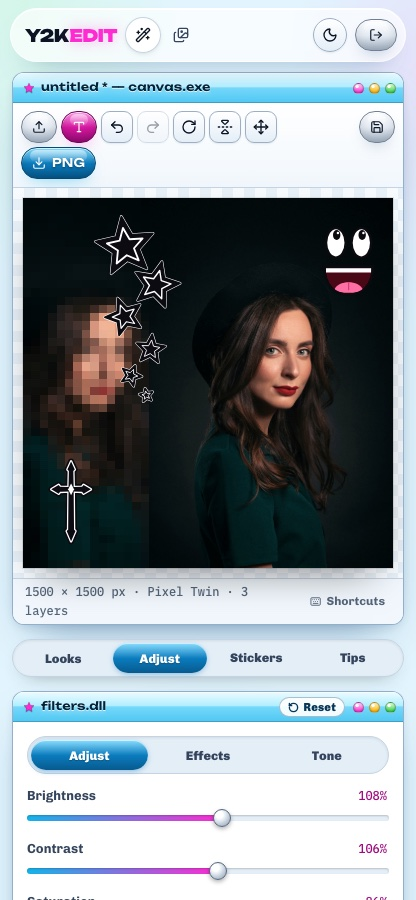
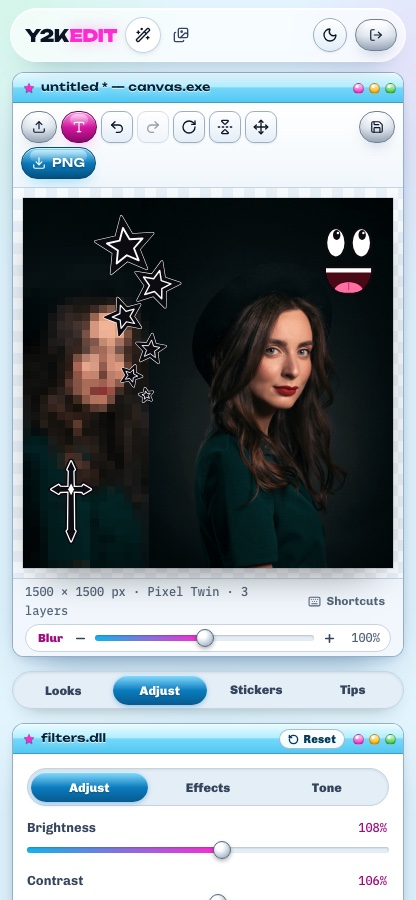
Editor: Blur meter under the canvas for blurry looks
The blur sliders from the last change sat in the Effects tab of
filters.dll, below all 29 presets and the layout panel, so they were
hard to find. Now, whenever the look has blur in it (Blur, Soft focus
or Dreamy glow), a Blur meter shows in the canvas status bar:

- 0% to 200% of the look's blur; 100% is the look as designed. At 0%
  the look keeps its colours but loses its softness.
- - and + buttons move it in steps of 10; clicking the value resets it.
- It scales all three blurs together; the Effects tab sliders still
  fine-tune each one.
- On phones it takes its own full-width row under the canvas.
- The status bar is a fixed height, so the canvas doesn't move when the
  meter appears. A new look resets the meter to 100%, and older edits
  load at 100%.

README: the editor and phone screenshots now show the meter, and the
feature list describes it.

Changed region(s): [[0.0312, 0.6533, 0.9688, 1.0]]

diff --git a/frontend/src/editor/components/BlurMeter.tsx b/frontend/src/editor/components/BlurMeter.tsx
@@ -1,0 +1,69 @@
+import { useId, type CSSProperties } from "react";
+import { Minus, Plus } from "lucide-react";
+import { BLUR_SCALE_MAX } from "../defaults";
+
+interface BlurMeterProps {
+  /** 0..200 %: how much of the look's blur to keep; 100 is the look as designed. */
+  value: number;
+  onChange: (value: number) => void;
+  /** Closes the undo step once a drag, key press or button press is done. */
+  onCommit: () => void;
+}
+
+const STEP = 10;
+
+/**
+ * Sits under the canvas whenever the look has blur in it (Blur, Soft focus or Dreamy glow), so you can
+ * turn the softness down or up without hunting through the filter panel.
+ */
+export function BlurMeter({ value, onChange, onCommit }: BlurMeterProps) {
+  const id = useId();
+  const nudge = (delta: number) => {
+    onChange(Math.min(BLUR_SCALE_MAX, Math.max(0, value + delta)));
+    onCommit();
+  };
+  const changed = value !== 100;
+  return (
+    <div className="blur-meter" title="Turns all the blur in this look down or up">
+      <label htmlFor={id} className="blur-meter__label">
+        Blur
+      </label>
+      <button type="button" className="blur-meter__step" onClick={() => nudge(-STEP)} disabled={value <= 0} aria-label="Less blur">
+        <Minus size={13} strokeWidth={3} aria-hidden="true" />
+      </button>
+      <input
+        id={id}
+        className="range blur-meter__range"
+        type="range"
+        min={0}
+        max={BLUR_SCALE_MAX}
+        step={5}
+        value={value}
+        aria-valuetext={value === 0 ? "No blur" : `${value}% of the look's blur`}
+        style={{ "--fill": `${(value / BLUR_SCALE_MAX) * 100}%` } as CSSProperties}
+        onChange={(e) => onChange(Number(e.target.value))}
+        onPointerUp={onCommit}
+        onKeyUp={onCommit}
+        onBlur={onCommit}
+      />
+      <button type="button" className="blur-meter__step" onClick={() => nudge(STEP)} disabled={value >= BLUR_SCALE_MAX} aria-label="More blur">
+        <Plus size={13} strokeWidth={3} aria-hidden="true" />
+      </button>
+      {changed ? (
+        <button
+          type="button"
+          className="blur-meter__value blur-meter__value--reset"
+          title="Back to the look's own blur"
+          onClick={() => {
+            onChange(100);
+            onCommit();
+          }}
+        >
+          {value}%
+        </button>
+      ) : (
+        <span className="blur-meter__value">{value}%</span>
+      )}
+    </div>
+  );
+}

diff --git a/frontend/src/styles/editor.css b/frontend/src/styles/editor.css
@@ -448,6 +448,64 @@
   color: var(--pink-ink);
 }
 
+/* ---------- Blur meter: in the canvas status bar while the look has blur in it ---------- */
+.canvas-window .window__status {
+  min-height: 36px; /* tall enough for the meter, so the stage doesn't jump when it appears */
+  flex-wrap: wrap;
+  row-gap: 4px;
+}
+/* The size line gives way first, so Shortcuts keeps its place beside it on a phone. */
+.canvas-window .window__status > .tabular { flex: 1 1 0; min-width: 0; }
+.blur-meter {
+  display: flex;
+  align-items: center;
+  gap: 4px;
+  margin-left: auto;
+  padding: 1px 8px 1px 12px;
+  border: 1px solid var(--line);
+  border-radius: 999px;
+  background: var(--surface);
+}
+.blur-meter__label {
+  margin-right: 2px;
+  color: var(--pink-ink);
+  font-size: 12px;
+  font-weight: 800;
+}
+.blur-meter__step {
+  display: grid;
+  place-items: center;
+  width: 22px;
+  height: 22px;
+  padding: 0;
+  border: 0;
+  border-radius: 50%;
+  background: none;
+  color: var(--ink-2);
+}
+.blur-meter__step:hover:not(:disabled) {
+  background: var(--surface-3);
+  color: var(--pink-ink);
+}
+.blur-meter__step:disabled { opacity: 0.35; }
+.blur-meter__range { width: 140px; height: 24px; }
+.blur-meter__value {
+  min-width: 38px;
+  padding: 0 2px;
+  border: 0;
+  background: none;
+  color: var(--ink-3);
+  font-family: var(--font-mono);
+  font-size: 12px;
+  font-variant-numeric: tabular-nums;
+  text-align: right;
+}
+.blur-meter__value--reset {
+  border-radius: 4px;
+  color: var(--pink-ink);
+}
+.blur-meter__value--reset:hover { text-decoration: underline; text-underline-offset: 2px; }
+
 /* ---------- Arrange mode ---------- */
 .arrange {
   position: absolute;
@@ -759,6 +817,9 @@ kbd {
 }
 @media (max-width: 640px) {
   .presets { grid-template-columns: repeat(3, minmax(0, 1fr)); }
+  /* Own row under the size line, as wide as the canvas, so the track is easy to drag with a thumb. */
+  .blur-meter { order: 3; flex: 1 1 100%; margin-left: 0; }
+  .blur-meter__range { flex: 1; width: auto; }
   .toolbar { gap: 4px; padding: 8px; }
   .toolbar__label,
   .toolbar__copy,

diff --git a/frontend/src/pages/Editor.tsx b/frontend/src/pages/Editor.tsx
@@ -22,7 +22,7 @@ import { ConfirmDialog, Dialog } from "@/components/Dialog";
 import { Window } from "@/components/Window";
 import { api, downloadBlob, errorMessage, fetchBlob, type CustomSticker, type Edit } from "@/lib/api";
 import { useAuth } from "@/lib/auth";
-import { DEFAULT_CROP, DEFAULT_FILTERS, EXPORT_MAX_SIDE, LAYOUTS, ZOOM_MAX, newDoc } from "@/editor/defaults";
+import { DEFAULT_CROP, DEFAULT_FILTERS, EXPORT_MAX_SIDE, LAYOUTS, ZOOM_MAX, hasBlur, newDoc } from "@/editor/defaults";
 import { ensureFonts, fontsIn } from "@/editor/fonts";
 import { useHistory } from "@/editor/history";
 import { normalizeDoc } from "@/editor/normalize";
@@ -32,6 +32,7 @@ import { checkFile, loadSample, sourceFromBlob, type Source } from "@/editor/sou
 import { loadImage, registerCustomSticker, stickerUrl } from "@/editor/stickers";
 import type { Composition, EditorDoc, Filters, LayoutId, Overlay, PanelSlot } from "@/editor/types";
 import { AdjustPanel, LayoutPanel } from "@/editor/components/AdjustPanel";
+import { BlurMeter } from "@/editor/components/BlurMeter";
 import { LayerPanel } from "@/editor/components/LayerPanel";
 import { PresetPanel } from "@/editor/components/PresetPanel";
 import { Stage, type ArrangeControls } from "@/editor/components/Stage";
@@ -561,6 +562,9 @@ export default function Editor() {
                     ? `${comp.width} × ${comp.height} px · ${layoutLabel} · ${doc.overlays.length} ${doc.overlays.length === 1 ? "layer" : "layers"}`
                     : "No photo yet"}
               </span>
+              {source && !arranging && hasBlur(doc.filters) ? (
+                <BlurMeter value={doc.filters.blurScale} onChange={(v) => setFilter({ blurScale: v })} onCommit={history.commit} />
+              ) : null}
               <button type="button" className="status-btn" onClick={() => setShowKeys(true)}>
                 <Keyboard size={13} aria-hidden="true" />
                 Shortcuts

diff --git a/frontend/src/editor/render.ts b/frontend/src/editor/render.ts
@@ -408,6 +408,7 @@ function blurInPlace(c: HTMLCanvasElement, radius: number) {
 // ---------- Overlay effects ----------
 /** Soft focus: a blurred copy laid over the photo, plus a lighten pass so highlights halo like a diffusion filter. */
 function applySoften(c: HTMLCanvasElement, amount: number, radius: number) {
+  if (radius < 0.5) return; // laying an unblurred copy over the photo changes nothing
   const a = amount / 100;
   const soft = scratchCanvas("soften", c.width, c.height);
   const sctx = ctx2d(soft);
@@ -439,7 +440,7 @@ function applyGlow(c: HTMLCanvasElement, amount: number, radius: number) {
     d[i + 2] = (d[i + 2] - 120) * 1.7;
   }
   sctx.putImageData(img, 0, 0);
-  blurInPlace(small, Math.max(1, (radius * sh) / c.height));
+  if (radius > 0) blurInPlace(small, Math.max(1, (radius * sh) / c.height));
   const ctx = ctx2d(c);
   ctx.save();
   ctx.globalCompositeOperation = "screen";
@@ -532,9 +533,11 @@ export function renderBase(target: HTMLCanvasElement, src: ImageSource, doc: Edi
   drawPanels(target, src, doc, size);
 
   colourPass(target, f, f.rgbSplit * ref);
-  if (f.soften > 0) applySoften(target, f.soften, f.softenBlur * ref);
-  if (f.blur > 0) blurInPlace(target, f.blur * ref);
-  if (f.glow > 0) applyGlow(target, f.glow, f.glowBlur * ref);
+  // The Blur meter scales all three blurs together; at 0 the look keeps its colour but loses its softness.
+  const blurPx = ref * (f.blurScale / 100);
+  if (f.soften > 0) applySoften(target, f.soften, f.softenBlur * blurPx);
+  if (f.blur > 0) blurInPlace(target, f.blur * blurPx);
+  if (f.glow > 0) applyGlow(target, f.glow, f.glowBlur * blurPx);
 
   ctx.save();
   if (f.vignette > 0) {

diff --git a/frontend/src/editor/normalize.ts b/frontend/src/editor/normalize.ts
@@ -1,4 +1,4 @@
-import { DEFAULT_COMPOSE, DEFAULT_FILTERS, FONTS, FRAMES, SEAMS, SPLIT_MAX, SPLIT_MIN, TEXT_STYLES, ZOOM_MAX, newDoc } from "./defaults";
+import { BLUR_SCALE_MAX, DEFAULT_COMPOSE, DEFAULT_FILTERS, FONTS, FRAMES, SEAMS, SPLIT_MAX, SPLIT_MIN, TEXT_STYLES, ZOOM_MAX, newDoc } from "./defaults";
 import type { Crop, EditorDoc, Filters, FontId, FrameId, LayoutId, Overlay, Rotation, SeamId, TextStyleId } from "./types";
 
 const num = (v: unknown, fallback: number, min: number, max: number) =>
@@ -47,6 +47,7 @@ export function normalizeDoc(raw: unknown): EditorDoc {
     }
     else filters[key] = num(f[key], DEFAULT_FILTERS[key], -360, 360);
   }
+  filters.blurScale = num(f.blurScale, DEFAULT_FILTERS.blurScale, 0, BLUR_SCALE_MAX);
   doc.filters = filters;
 
   const overlays = Array.isArray(r.overlays) ? r.overlays : [];

diff --git a/frontend/src/editor/defaults.ts b/frontend/src/editor/defaults.ts
@@ -11,6 +11,7 @@ export const DEFAULT_FILTERS: Filters = {
   sepia: 0,
   grayscale: 0,
   blur: 0,
+  blurScale: 100,
   soften: 0,
   softenBlur: 12,
   pixelate: 0,
@@ -50,8 +51,14 @@ export function newDoc(): EditorDoc {
   };
 }
 
+/** The look has some blur in it, so the Blur meter under the canvas has something to turn up or down. */
+export function hasBlur(f: Filters): boolean {
+  return f.blur > 0 || f.soften > 0 || f.glow > 0;
+}
+export const BLUR_SCALE_MAX = 200;
+
 export interface SliderSpec {
-  key: Exclude<keyof Filters, "duotone" | "splitTone">;
+  key: Exclude<keyof Filters, "duotone" | "splitTone" | "blurScale">;
   label: string;
   min: number;
   max: number;

diff --git a/frontend/src/editor/types.ts b/frontend/src/editor/types.ts
@@ -38,6 +38,7 @@ export interface Filters {
   sepia: number; // 0..100
   grayscale: number; // 0..100
   blur: number; // 0..20, px at a 1000px-tall reference
+  blurScale: number; // 0..200 %, turns every blur in the look down or up together (Blur, Soft focus blur, Glow blur); 100 = as set
   soften: number; // 0..100, soft-focus haze that keeps the detail underneath
   softenBlur: number; // 2..40, how far the soft-focus haze spreads: px at a 1000px-tall reference
   pixelate: number; // 0..60, block size at a 1000px-tall reference

diff --git a/README.md b/README.md
@@ -6,7 +6,7 @@ No AI: every look is plain canvas maths running in your browser, and your photo 
 
 ![Landing page with the live preset reel](docs/landing.jpg)
 
-![The editor with the Star Girl look: a pixelated twin, doodle stars and stickers. Presets on the left are rendered from your own photo](docs/editor.jpg)
+![The editor with the Star Girl look: a pixelated twin, doodle stars and stickers, with the Blur meter under the canvas. Presets on the left are rendered from your own photo](docs/editor.jpg)
 
 ![The gallery: saved edits with re-edit, download, share and delete](docs/gallery.jpg)
 
@@ -14,7 +14,7 @@ No AI: every look is plain canvas maths running in your browser, and your photo 
 
 - **29 presets** that each set filters, a layout and their own stickers or text. Sixteen are modelled on icon-edit pins: Old iPhone, Midnight, Night Flash, Night Blur, Washed Out, Noir Twin, Ember, Camcorder, Golden Grain, Under Arrest, Swag, Whatever, Star Girl, Scrapbook, Hotter than Hell, Soft Advisory. The originals are still there: Original, Icon Twin, Downtown, Sacred Mono, Pixel Pop, Advisory, Grunge B&W, Is this Illegal?, Frutiger Aero, Cybercore, Glitter Bling, Lomo / Disposable, Chrome. Every preset tile is rendered from *your* photo.
 - **Layouts:** Single, Twin, Mirror and Pixel Twin. Two-photo layouts start in a 1:1 frame (or pick Fit, 4:5 or 3:4). **Arrange** mode lets you drag each photo inside its panel, zoom it with the wheel or a pinch, and drag the divider anywhere from 25% to 75%; you can also swap sides and join the panels with a cut, a thin line or a soft fade. Rotate and flip the source photo.
-- **19 adjustments:** brightness, contrast, saturation, hue, warmth, tint, fade, sepia, grayscale, blur, pixelate, soft focus, dreamy glow, film grain, vignette, RGB split, scanlines, plus six split tones (Retro, Ember, Cinema, Midnight, Rose, Olive) and six duotones. Soft focus and dreamy glow each have their own **blur** slider, tucked under the effect, that sets how far the haze or glow spreads; it switches on once the effect does.
+- **19 adjustments:** brightness, contrast, saturation, hue, warmth, tint, fade, sepia, grayscale, blur, pixelate, soft focus, dreamy glow, film grain, vignette, RGB split, scanlines, plus six split tones (Retro, Ember, Cinema, Midnight, Rose, Olive) and six duotones. Whenever a look has blur in it, a **Blur** meter appears under the canvas: turn it down to sharpen the look (0% keeps the colours but drops the softness) or up to 200% for more haze, with − and + for small steps. For finer control, Soft focus and Dreamy glow each have their own blur slider in the Effects tab.
 - **55 built-in stickers** in six groups (faces and props like a moustache, nerd glasses and dog ears; stars; exclamations and marks; gothic crosses and advisory labels; flowers and butterflies; Y2K tech), and your own uploads: the server cuts out white backgrounds (flood-filled from the edges, so white details inside the sticker survive). Admin accounts' stickers are shared with everyone.
 - **Text layers** in 15 styles (chrome, holo, neon, bubble, horror, datestamp, white, black, meme caption, glitter, VHS, echo, tooltip, chat bubble, speech bubble) and 9 fonts.
 - **Undo / redo** and keyboard shortcuts (`⌘Z`, `⇧⌘Z`, `⌘S`, `⌘D`, `⌫`, arrows, `[ ]`, `T`, `A`, `?`).
